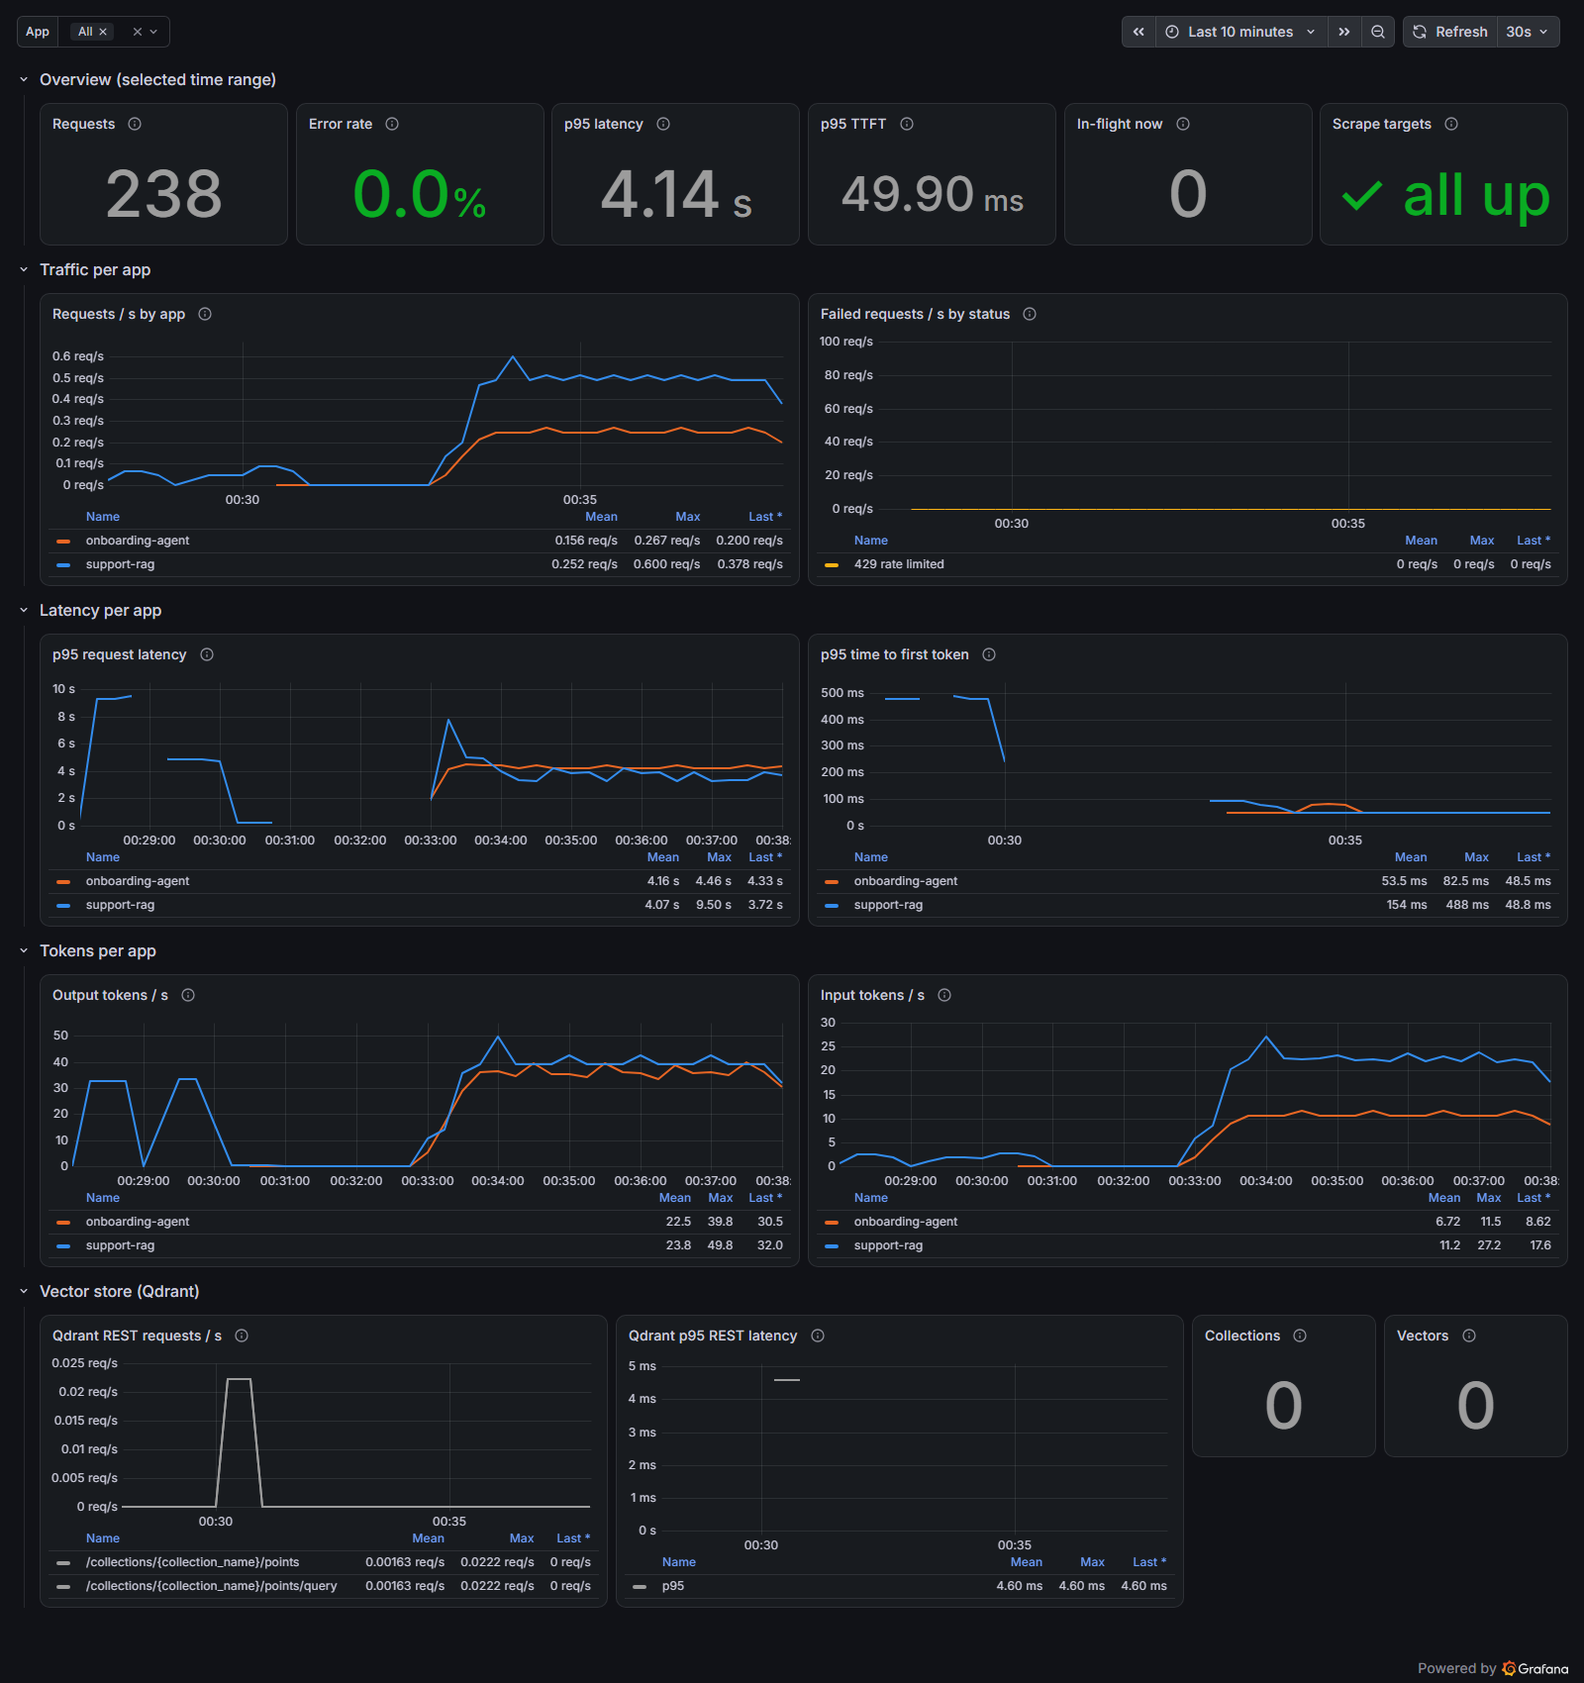
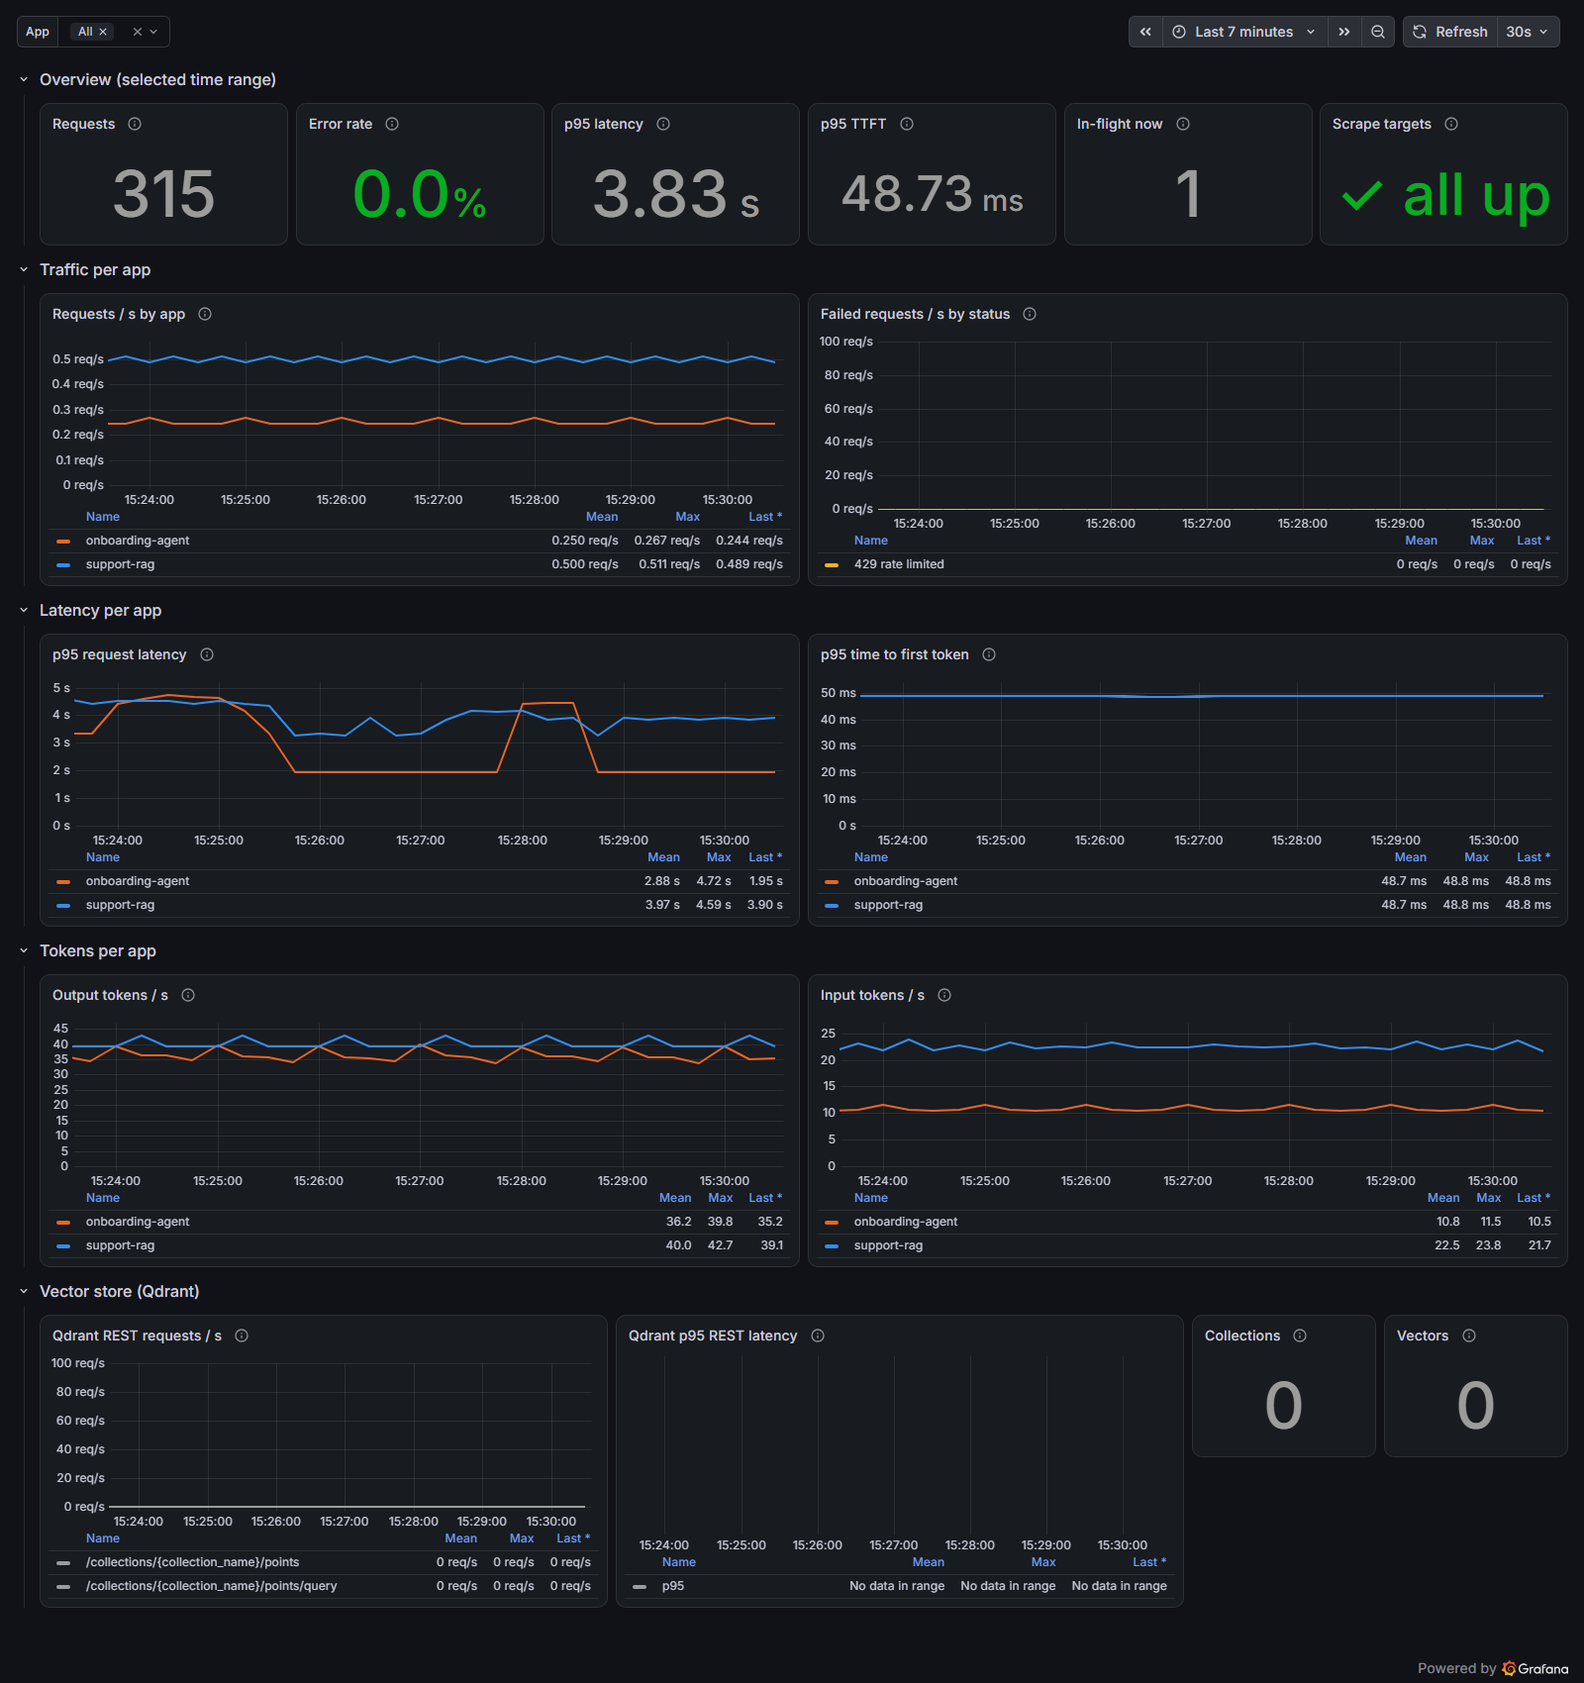
docs: re-take dashboard screenshot with production-key traffic only; per-path test counts
- dashboard.png: 7-minute range inside a 10-minute app_traffic.py run, no
  tests or load tests in range (Prometheus query saved as evidence); the old
  one had the tail of a pytest run in range (p95 9.5 s, TTFT 488 ms).
  screenshot_dashboard.py --allow-idle-qdrant (no app uses Qdrant yet);
  scripts/dashboard_window_traffic.py verifies the window.
- README lists test counts and commands per path (tests/platform vs tests/e2e),
  checked against pytest --collect-only.
- Benchmark Markdown vs raw CSV: the Results tables of both reports and the
  /v1 degradation and back-to-back tables are now checked too.

diff --git a/tests/platform/test_readme.py b/tests/platform/test_readme.py
@@ -178,6 +178,75 @@ def test_degradation_comparison_matches_both_raw_runs():
             f"{float(o['throughput_tps']):.1f}", f"{float(n['throughput_tps']):.1f}"], (i, rows[i])
 
 
+BENCH_REPORTS = {  # report -> raw run whose summary.md its "## Results" table was copied from
+    REPO / "docs/benchmarks/2026-11-26-baseline.md": BENCH_OLD,
+    BENCH_COMPARE_DOC: BENCH_CURRENT,
+}
+
+
+def _results_rows(md: str) -> list[str]:
+    """Data rows of the first table after '## Results'."""
+    part = md.split("## Results", 1)[1]
+    rows = [ln for ln in part.splitlines() if ln.startswith("| ")]
+    head = next(i for i, ln in enumerate(rows) if ln.startswith("| Concurrency"))
+    out = []
+    for ln in rows[head + 1:]:
+        if not re.match(r"^\| \d+ \|", ln):
+            break
+        out.append(ln)
+    return out
+
+
+@pytest.mark.parametrize("report", list(BENCH_REPORTS), ids=lambda p: p.name)
+def test_benchmark_report_results_match_raw_summary(report):
+    """Each benchmark report's Results table is the raw run's summary.md table, row for row."""
+    doc = _results_rows(report.read_text(encoding="utf-8"))
+    raw = _results_rows((BENCH_REPORTS[report] / "summary.md").read_text(encoding="utf-8"))
+    assert len(doc) == 5 and doc == raw, (report.name, doc, raw)
+
+
+def test_baseline_degradation_and_back_to_back_tables_match_raw():
+    """The /v1 baseline report's Operational-risk table and back-to-back table vs their CSVs."""
+    doc = (REPO / "docs/benchmarks/2026-11-26-baseline.md").read_text(encoding="utf-8").replace("**", "")
+    raw = _degradation(DEGRADATION_RUNS["`/v1`（舊）"])
+    rows = re.findall(r"^\| (\d) \| [a-z][^|]* \| (\d+) \| ([\d.]+) s \| ([\d.]+) s \| ([\d.]+) \| ([\d.]+) \|$",
+                      doc, re.M)
+    assert len(rows) == len(raw) == 14, rows
+    for (cy, c, ttft95, lat50, dec, thr), r in zip(rows, raw):
+        assert (cy, c) == (r["cycle"], r["concurrency"])
+        assert [ttft95, lat50, dec, thr] == [
+            f"{float(r['ttft_p95_s']):.3f}", f"{float(r['latency_p50_s']):.2f}",
+            f"{float(r['decode_tps_p50']):.1f}", f"{float(r['throughput_tps']):.1f}"], (cy, r["step"])
+
+    b2b = _bench_summary(REPO / "reports/raw/1.10/back-to-back-sweep")
+    thr = re.search(r"^\| Throughput tok/s, back-to-back sweep \|(.+)\|$", doc, re.M).group(1)
+    ttft = re.search(r"^\| TTFT p95, back-to-back sweep \|(.+)\|$", doc, re.M).group(1)
+    assert [x.strip() for x in thr.split("|")] == [f"{float(b2b[c]['throughput_tps']):.1f}" for c in sorted(b2b)]
+    assert [x.strip() for x in ttft.split("|")] == [f"{float(b2b[c]['ttft_p95_s']):.3f} s" for c in sorted(b2b)]
+
+
+@pytest.mark.parametrize("path", ["tests/platform", "tests/e2e"])
+def test_readme_test_counts_match_collection(path):
+    """The per-path test counts in the README are what pytest actually collects."""
+    import subprocess
+    import sys
+    out = subprocess.run([sys.executable, "-m", "pytest", "--collect-only", "-q", "-p", "no:cacheprovider", path],
+                         cwd=REPO, capture_output=True, text=True, encoding="utf-8", timeout=120).stdout
+    collected = int(re.search(r"^(\d+) tests? collected", out, re.M).group(1))
+    row = re.search(rf"^\| `{path}` \| (\d+)", README, re.M)
+    assert row, f"README has no test-count row for {path}"
+    assert int(row.group(1)) == collected, (path, row.group(1), collected)
+    total = re.search(r"^\| 全部（`tests`） \| (\d+)", README, re.M)
+    rows = [int(n) for n in re.findall(r"^\| `tests/(?:platform|e2e)` \| (\d+)", README, re.M)]
+    assert total and int(total.group(1)) == sum(rows)
+    xfails = sum(len(re.findall(r"^@pytest\.mark\.xfail\b", src, re.M)) for src in
+                 (f.read_text(encoding="utf-8") for f in (REPO / "tests/platform").glob("test_*.py")))
+    platform = int(re.search(r"^\| `tests/platform` \| (\d+)", README, re.M).group(1))
+    e2e = int(re.search(r"^\| `tests/e2e` \| (\d+)", README, re.M).group(1))
+    assert f"「{platform - xfails} passed, {xfails} xfailed」" in README
+    assert f"「{platform + e2e - xfails} passed, {xfails} xfailed」" in README
+
+
 def test_key_limits_table_matches_toml():
     keys = tomllib.loads((REPO / "infra/litellm/virtual-keys.toml").read_text(encoding="utf-8"))["keys"]
     for alias, k in keys.items():

diff --git a/scripts/dashboard_window_traffic.py b/scripts/dashboard_window_traffic.py
@@ -1,0 +1,85 @@
+"""Which traffic is inside a dashboard screenshot's time range? (evidence for docs/images/dashboard.png)
+
+    python -I scripts/dashboard_window_traffic.py --range 7m [--at <unix ts>] | python -I scripts/rawlog.py OUT
+
+Queries Prometheus (inside the compose network, via `docker compose exec prometheus
+wget`) for the increase of every LiteLLM request/failure counter per api_key_alias
+and status, and of Qdrant REST calls, over the window [at - range, at]. Prints one
+line per series with a non-zero increase plus a verdict: the window holds only the
+production app keys' traffic (support-rag, onboarding-agent) with no failures.
+No credentials are needed or printed. Exit code 1 if anything else is in the window.
+"""
+from __future__ import annotations
+
+import argparse
+import json
+import subprocess
+import sys
+import time
+import urllib.parse
+from datetime import datetime, timezone
+from pathlib import Path
+
+REPO = Path(__file__).resolve().parents[1]
+APP_ALIASES = {"support-rag", "onboarding-agent"}
+
+
+def query(expr: str, at: float) -> list[dict]:
+    url = "http://localhost:9090/api/v1/query?" + urllib.parse.urlencode({"query": expr, "time": f"{at:.3f}"})
+    out = subprocess.run(["docker", "compose", "exec", "-T", "prometheus", "wget", "-qO-", url],
+                         cwd=REPO, capture_output=True, text=True, timeout=60, check=True).stdout
+    body = json.loads(out)
+    assert body["status"] == "success", body
+    return body["data"]["result"]
+
+
+def main() -> int:
+    sys.stdout.reconfigure(encoding="utf-8")
+    ap = argparse.ArgumentParser(description=__doc__.splitlines()[0])
+    ap.add_argument("--range", default="7m", help="window length, Prometheus duration (default 7m)")
+    ap.add_argument("--at", type=float, default=None, help="window end, unix seconds (default now)")
+    args = ap.parse_args()
+    at = args.at or time.time()
+    end = datetime.fromtimestamp(at, timezone.utc)
+    print(f"window: last {args.range} before {end:%Y-%m-%d %H:%M:%S} UTC "
+          f"({datetime.fromtimestamp(at).astimezone():%H:%M:%S %z} local)")
+
+    other, failures, app_total = [], [], 0.0
+    checks = [
+        ("requests", f"sum by (api_key_alias) (increase(litellm_proxy_total_requests_metric_total[{args.range}]))"),
+        ("failed", f"sum by (api_key_alias, exception_status) "
+                   f"(increase(litellm_proxy_failed_requests_metric_total[{args.range}]))"),
+        ("qdrant_rest", f"sum by (endpoint) (increase(rest_responses_total[{args.range}]))"),
+    ]
+    for name, expr in checks:
+        rows = query(expr, at)
+        print(f"\n[{name}] {expr}")
+        shown = 0
+        for r in sorted(rows, key=lambda r: sorted(r["metric"].items())):
+            v = float(r["value"][1])
+            if v < 0.5:                      # increase() extrapolates; < 0.5 means no event
+                continue
+            shown += 1
+            labels = ", ".join(f"{k}={v2}" for k, v2 in sorted(r["metric"].items())) or "(no labels)"
+            print(f"  {labels}: {v:.1f}")
+            alias = r["metric"].get("api_key_alias")
+            if name == "requests":
+                if alias in APP_ALIASES:
+                    app_total += v
+                else:
+                    other.append(f"requests from {alias}")
+            elif name == "failed":
+                failures.append(f"{alias} {r['metric'].get('exception_status')}")
+            else:
+                other.append(f"qdrant {r['metric'].get('endpoint')}")
+        if not shown:
+            print("  (nothing)")
+
+    ok = not other and not failures and app_total > 0
+    print(f"\nverdict: {'ONLY production app traffic, no failures' if ok else 'NOT clean'}"
+          f" (app requests ~{app_total:.0f}; other: {other or 'none'}; failures: {failures or 'none'})")
+    return 0 if ok else 1
+
+
+if __name__ == "__main__":
+    sys.exit(main())

diff --git a/scripts/screenshot_dashboard.py b/scripts/screenshot_dashboard.py
@@ -8,6 +8,11 @@ saves the screenshot if every panel shows data: no "No data" text, no empty
 stat value, every time-series legend row numeric, and a non-zero Max in each
 time-series panel except the error panel (zero errors is a valid reading). Generate traffic first, e.g. `python loadtest/app_traffic.py`.
 Exit code 1 (and no file written) if a panel is empty.
+
+--allow-idle-qdrant exempts the Qdrant panels (title starts with "Qdrant") from
+the data checks. Use it for a screenshot of app traffic only: no app calls
+Qdrant yet (phase 2), so with no test traffic in the range those panels are
+legitimately empty. The exempted panels are printed.
 """
 from __future__ import annotations
 
@@ -38,16 +43,19 @@ def load_env() -> dict[str, str]:
     return env
 
 
-def problems(page) -> list[str]:
+def problems(page, idle_ok=lambda title: False) -> list[str]:
     found = []
     for i in range(page.get_by_text(EMPTY_TEXT).count()):
         title = page.get_by_text(EMPTY_TEXT).nth(i).evaluate(
             "e => e.closest('[data-viz-panel-key]')?.querySelector('h2')?.textContent ?? '?'")
-        found.append(f"{title}: 'No data'")
+        if not idle_ok(title.strip()):
+            found.append(f"{title}: 'No data'")
     panels = page.locator("[data-viz-panel-key]")
     for i in range(panels.count()):
         p = panels.nth(i)
         title = p.locator("h2").first.inner_text().strip()
+        if idle_ok(title):
+            continue
         legend = p.locator("[data-testid='data-testid viz-layout-legend'] tbody tr")
         if legend.count():                                    # time series
             maxima = []
@@ -73,7 +81,12 @@ def main() -> int:
     ap = argparse.ArgumentParser(description=__doc__.splitlines()[0])
     ap.add_argument("--range", default="10m", help="time range ending now (default 10m)")
     ap.add_argument("--out", type=Path, default=REPO / "docs/images/dashboard.png")
+    ap.add_argument("--allow-idle-qdrant", action="store_true",
+                    help="do not require data in the Qdrant panels (app-traffic-only screenshot)")
     args = ap.parse_args()
+
+    def idle_ok(title: str) -> bool:
+        return args.allow_idle_qdrant and title.startswith("Qdrant")
     env = load_env()
     base = f"http://127.0.0.1:{env.get('GRAFANA_PORT', '3000')}"
 
@@ -94,7 +107,10 @@ def main() -> int:
         page.wait_for_selector("[data-viz-panel-key]", timeout=30_000)
         page.wait_for_load_state("networkidle")
         page.wait_for_timeout(2_000)
-        issues = problems(page)
+        issues = problems(page, idle_ok)
+        if args.allow_idle_qdrant:
+            print("exempt from data checks (--allow-idle-qdrant):",
+                  sorted(t for t in page.locator("[data-viz-panel-key] h2").all_inner_texts() if idle_ok(t.strip())))
         n = page.locator("[data-viz-panel-key]").count()
         with tempfile.TemporaryDirectory() as tmp:
             shot = Path(tmp) / "dashboard.png"

diff --git a/README.md b/README.md
@@ -4,13 +4,14 @@
 
 > 🚧 開發中。目前進度：**Phase 1（平台）完成**。Phase 2（客服 RAG）、Phase 3（教學 Agent）尚未開始。
 
-![Platform overview 儀表板：以正式應用 key 跑 5 分鐘流量後的畫面](docs/images/dashboard.png)
+![Platform overview 儀表板：只有兩把正式應用 key 的一般流量時的畫面](docs/images/dashboard.png)
 
 <sub>截圖說明：
-- 截圖時間範圍為最近 10 分鐘，時間軸使用瀏覽器時區（UTC+8）。
-- 右側的 LLM 流量來自 `loadtest/app_traffic.py`：以兩把正式 key 送出，速率在各自限額內，全部回 200。
-- Qdrant 面板的資料來自測試套件，因為 RAG 應用尚未實作。
-- 資料來源的細節見 [`reports/raw/D/screenshot.txt`](reports/raw/D/screenshot.txt)。</sub>
+- **時間範圍**：2026-11-27 15:23:32–15:30:32（UTC+8），共 7 分鐘。時間軸使用瀏覽器時區（UTC+8）。
+- **流量來源**：只有 `loadtest/app_traffic.py` 以兩把正式 key（`support-rag`、`onboarding-agent`）送出的一般流量。速率在各自限額內，150 + 150 輪全部回 200。這段流量從 15:22:08 起跑 10 分鐘，截圖範圍完全落在其中。
+- **範圍內沒有測試、壓測或 master key 的流量**，也沒有失敗的請求。依據是截圖當下對 Prometheus 的查詢結果。所以錯誤率 0.0%，p95 延遲反映一般 chat 回應的長度。
+- **Qdrant 面板沒有資料**：RAG 應用尚未實作，沒有應用呼叫 Qdrant；Collections／Vectors 為 0 是實際值。
+- 證據：[`reports/raw/dashboard/`](reports/raw/dashboard/)（流量輸出、截圖輸出、時間窗內的流量查詢）。</sub>
 
 ## 目錄
 
@@ -250,11 +251,13 @@ python infra/grafana/build_dashboards.py --check   # 給 CI / pytest 用：JSON 
 重新產生 README 截圖的步驟：
 
 ```bash
-python loadtest/app_traffic.py --duration 300                  # 先跑一段正式 key 流量
-python -m uv run python scripts/screenshot_dashboard.py --range 10m
+python loadtest/app_traffic.py --duration 600                  # 正式 key 的一般流量；期間不要跑測試或壓測
+# 約 8 分鐘後（另開一個終端機），截圖範圍要完全落在流量期間：
+python -m uv run python scripts/screenshot_dashboard.py --range 7m --allow-idle-qdrant
+python scripts/dashboard_window_traffic.py --range 7m          # 確認範圍內只有正式 key、沒有失敗
 ```
 
-`screenshot_dashboard.py` 會用 Playwright 的 kiosk 模式截圖。只要有任何面板沒有資料，就不會寫入 `docs/images/dashboard.png`。
+`screenshot_dashboard.py` 會用 Playwright 的 kiosk 模式截圖。只要有任何面板沒有資料，就不會寫入 `docs/images/dashboard.png`。`--allow-idle-qdrant` 只豁免 Qdrant 面板，並會列出被豁免的面板名稱。`dashboard_window_traffic.py` 查詢 Prometheus：範圍內若有正式 key 以外的流量、任何失敗或 Qdrant 呼叫，就以結束碼 1 回報。
 
 ## 測試
 
@@ -270,6 +273,16 @@ python -m uv run pytest                          # 全部，約 5 分鐘
 python -m uv run pytest -m "not llm"             # 跳過會呼叫模型的測試，包括 Grafana e2e（約 20 秒）
 python -m uv run pytest tests/e2e                # 只跑 Grafana 瀏覽器檢查（約 2.5 分鐘）
 ```
+
+各路徑的測試數量（`pytest --collect-only` 的結果，由 `test_readme.py` 檢查與實際一致）：
+
+| 路徑 | 測試數 | 指令 | 內容 |
+|---|---:|---|---|
+| `tests/platform` | 163（含 1 個 xfail） | `python -m uv run pytest tests/platform` | 容器、gateway、key、監控、儀表板 API、Qdrant、壓測工具、README 與 repo 衛生 |
+| `tests/e2e` | 22 | `python -m uv run pytest tests/e2e` | Playwright 瀏覽器檢查 Grafana 儀表板（需要 chromium） |
+| 全部（`tests`） | 185 | `python -m uv run pytest` | 上面兩者合計 |
+
+只跑 `tests/platform` 時，結果是「162 passed, 1 xfailed」，不包含 e2e 的 22 個測試；完整套件是「184 passed, 1 xfailed」。
 
 | 檔案 | 驗證內容 |
 |---|---|

diff --git a/reports/raw/dashboard/PROVENANCE.md b/reports/raw/dashboard/PROVENANCE.md
@@ -1,0 +1,17 @@
+# docs/images/dashboard.png：資料來源（2026-11-27）
+
+| | UTC | UTC+8（圖上時間軸） |
+|---|---|---|
+| `app_traffic.py --duration 600` 開始 | 07:22:08 | 15:22:08 |
+| 截圖時間範圍（`--range 7m`） | 07:23:32–07:30:32 | 15:23:32–15:30:32 |
+| `app_traffic.py` 結束 | 07:32:07 | 15:32:07 |
+
+- 截圖範圍的起點比流量開始晚 84 秒。面板的 rate 視窗（`$__rate_interval`，約 1 分鐘）不會回看到流量開始之前。
+- 範圍內沒有執行會連線 gateway 的測試或壓測：最後一次完整 pytest 在 07:05 左右結束，下一次在截圖之後才開始。流量期間只跑過不連線任何服務的離線測試，例如 test_readme、test_repo_hygiene 的空白與路徑檢查。
+- `app-traffic.txt`：兩個應用各 150 輪，全部 HTTP 200。
+- `screenshot.txt`：16 個面板。只有兩個 Qdrant 時間序列面板因 `--allow-idle-qdrant` 被豁免，其餘都通過「有資料」檢查。
+- `window-traffic.txt`：以截圖時刻為終點、7 分鐘視窗查詢 Prometheus。
+  - 只有 `onboarding-agent` 約 105 筆、`support-rag` 約 210 筆，合計與圖上的 Requests 315 一致；
+  - 沒有失敗紀錄，也沒有 Qdrant REST 呼叫。
+  - 查詢在截圖後約 2 秒執行，兩者的時間窗只差這 2 秒。
+- 取代的舊圖（commit `fa6116e` 起）：10 分鐘範圍的左側含有一次完整 pytest 的尾段（p95 latency 最大 9.50 s、TTFT 488 ms），Qdrant 資料也來自測試。
